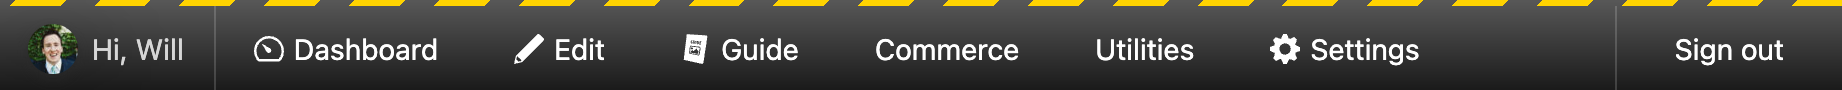
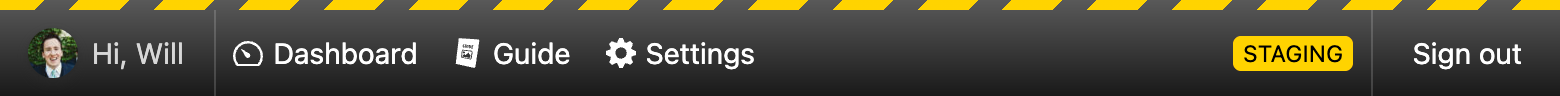
refactor: changed name from chip to label

diff --git a/src/components/AdminBarText.ts b/src/components/AdminBarText.ts
@@ -30,13 +30,13 @@ export class AdminBarText extends LitElement {
         background var(--admin-bar-transition-duration, 0.4s) ease-out,
         color var(--admin-bar-transition-duration, 0.4s) ease-out;
     }
-    .chip {
+    .label {
       padding: 3px 5px;
-      background-color: var(--admin-bar-chip-color-bg, rgba(255 255 255 / 0.9));
+      background-color: var(--admin-bar-text-label-color-bg, rgba(255 255 255 / 0.9));
       border-radius: 4px;
       line-height: 1;
       font-size: 0.8em;
-      color: var(--admin-bar-chip-color-text, black);
+      color: var(--admin-bar-text-label-color-text, black);
     }
   `
 
@@ -48,14 +48,14 @@ export class AdminBarText extends LitElement {
   /**
    * Sets the label for the `<admin-bar-text>`.
    */
-  @property({ attribute: 'chip-content' })
-  chipContent = ''
+  @property({ attribute: 'label-content' })
+  labelContent = ''
 
   /**
    * Sets the label for the `<admin-bar-text>`.
    */
-  @property({ attribute: 'chip-position' })
-  chipPosition: 'after' | 'before' = 'after'
+  @property({ attribute: 'label-position' })
+  labelPosition: 'after' | 'before' = 'after'
 
   /**
    * Sets the label for the `<admin-bar-text>`.
@@ -71,11 +71,11 @@ export class AdminBarText extends LitElement {
   render() {
     let textContent = html`<slot>${this.textContent ?? false ? html`<span>${this.textContent}</span>` : nothing}</slot>`
 
-    if (this.chipContent ?? false) {
+    if (this.labelContent ?? false) {
       textContent =
-        this.chipPosition === 'before'
-          ? html`<span class="chip">${this.chipContent}</span>${textContent}`
-          : html`${textContent}<span class="chip">${this.chipContent}</span>`
+        this.labelPosition === 'before'
+          ? html`<span class="label">${this.labelContent}</span>${textContent}`
+          : html`${textContent}<span class="label">${this.labelContent}</span>`
     }
 
     return html`<span class="admin-bar-text">${textContent}</span>`

diff --git a/index.html b/index.html
@@ -48,10 +48,10 @@
       <admin-bar-button button-href="https://craftcms.com">Anchor Slot</admin-bar-button>
       <admin-bar-button onclick="alert('hi')">Function Action<span slot="label-before"><svg class="icon" xmlns="http://www.w3.org/2000/svg" viewBox="0 0 240 240"><defs><style>.cls-1{fill:currentColor;}</style></defs><title>settings</title><path class="cls-1" d="M240,135V104.5l-35.93-15L201.32,81l15-34.87L194.87,24.5,158.63,39l-8.25-3.75L134.64,0h-29.5L90.06,35.55,82,38.84,45.33,24.94,24,46.38,39.55,81l-4,9L0,105v30l35.82,14.75,4,9-14.72,35.5L46.37,215l35.76-14.5,8.75,4L105.64,240h30l14.74-36.25,8.49-3.25,35.74,14.75L216.09,194l-14.55-36,3.27-8.5ZM120.45,165.13a45.25,45.25,0,1,1,45.25-45.25A45.25,45.25,0,0,1,120.45,165.13Z"/></svg></span></admin-bar-button>
       <span style="flex: 1 0 30px;"></span>
-      <admin-bar-text chip-content="25" chip-position="before">Chip goes before</admin-bar-text>
-      <admin-bar-text chip-content="25">Chip goes after</admin-bar-text>
+      <admin-bar-text label-content="25" label-position="before">Badge goes before</admin-bar-text>
+      <admin-bar-text label-content="25">Badge goes after</admin-bar-text>
       <admin-bar-text text-content="Simple plain text"></admin-bar-text>
-      <admin-bar-text chip-content="STAGING" style="--admin-bar-chip-color-bg: var(--admin-bar-environment-bg-color);"></admin-bar-text>
+      <admin-bar-text label-content="STAGING" style="--admin-bar-text-label-color-bg: var(--admin-bar-environment-bg-color);"></admin-bar-text>
     </admin-bar>
 
     <header style="font-family: system-ui; max-width: 50ch;">

diff --git a/cypress/component/AdminBarText.cy.ts b/cypress/component/AdminBarText.cy.ts
@@ -14,20 +14,20 @@ describe('Admin Bar Text Content', () => {
   })
 })
 
-describe('Admin Bar Chip Content', () => {
-  it('chip content is set correctly from attribute', () => {
-    cy.mount(html`<admin-bar-text chip-content="Hello"></admin-bar-text>`)
+describe('Admin Bar Badge Content', () => {
+  it('label content is set correctly from attribute', () => {
+    cy.mount(html`<admin-bar-text label-content="Hello"></admin-bar-text>`)
 
-    cy.get('admin-bar-text').shadow().find('.chip').contains('Hello')
+    cy.get('admin-bar-text').shadow().find('.label').contains('Hello')
   })
-  it('chip content is set after text content', () => {
-    cy.mount(html`<admin-bar-text chip-content="Hello" text-content="World"></admin-bar-text>`)
+  it('label content is set after text content', () => {
+    cy.mount(html`<admin-bar-text label-content="Hello" text-content="World"></admin-bar-text>`)
 
-    cy.get('admin-bar-text').shadow().find('.chip + *').should('not.exist')
+    cy.get('admin-bar-text').shadow().find('.label + *').should('not.exist')
   })
-  it('chip content is set after text content', () => {
-    cy.mount(html`<admin-bar-text chip-content="Hello" chip-position="before" text-content="World"></admin-bar-text>`)
+  it('label content is set after text content', () => {
+    cy.mount(html`<admin-bar-text label-content="Hello" label-position="before" text-content="World"></admin-bar-text>`)
 
-    cy.get('admin-bar-text').shadow().find('.chip + *').should('exist')
+    cy.get('admin-bar-text').shadow().find('.label + *').should('exist')
   })
 })

diff --git a/public/admin-bar.css b/public/admin-bar.css
@@ -71,11 +71,11 @@
     /* The text of all button labels. */
     --admin-bar-button-color-text: rgb(255 255 255);
 
-    /* The background for chips in `admin-bar-text` components. */
-    --admin-bar-chip-color-bg: rgba(255 255 255 / 0.9);
+    /* The background for labels in `admin-bar-text` components. */
+    --admin-bar-text-label-color-bg: rgba(255 255 255 / 0.9);
 
-    /* The text for chips in `admin-bar-text` components. */
-    --admin-bar-chip-color-text: rgba(0 0 0 / 1);
+    /* The text for labels in `admin-bar-text` components. */
+    --admin-bar-text-label-color-text: rgba(0 0 0 / 1);
 
     /* ====================================================================== */
 

diff --git a/README.md b/README.md
@@ -7,10 +7,8 @@ Admin Bar Component is a web component that is built with [Lit](https://lit.dev)
 - 👋 Show an avatar and a greeting to confirm the currently logged-in user.
 - 🚧 A customizable environment warning can be shown to let users know they are not on production.
 - 🎛 Buttons are customizable and can link to a URL or trigger JavaScript events.
+- 2⃣ Text elements can be added to provide stats and small notes to authors.
 - 🚪 A dedicated logout button gives users a way to sign out of your app.
-
-> [!NOTE]
-> Admin Bar Component is still in development. Things might change and break until the 1.0.0 release.
 
 ## Installation
 
@@ -207,26 +205,26 @@ Using the `text-content` attribute will add plain text that is styled to look li
 </admin-bar>
 ```
 
-### Adding Chips to Admin Bar Text Elements
+### Adding Labels to Admin Bar Text Elements
 
-You can use `<admin-bar-text>` elements for notes or for other useful information that is tied to the context of the current page you are on. Using the `chip-content` attribute on a `<admin-bar-text>` element will let you call out stats and other information:
+You can use `<admin-bar-text>` elements for notes or for other useful information that is tied to the context of the current page you are on. Using the `label-content` attribute on a `<admin-bar-text>` element will let you call out stats and other information:
 
 ```html
 <admin-bar>
-  <admin-bar-text chip-content="25" text-content="Enries in this Section"></admin-bar-text>
+  <admin-bar-text label-content="25" text-content="Enries in this Section"></admin-bar-text>
 </admin-bar>
 ```
 
-If you would like to create a label that is made up of only a chip, you can omit the default slot and the `text-content` attribute:
+If you would like to create a text element that is made up of only a label, you can omit the default slot and the `text-content` attribute:
 
 ```html
 <admin-bar show-environment>
-  <admin-bar-text chip-content="STAGING"></admin-bar-text>
+  <admin-bar-text label-content="STAGING"></admin-bar-text>
 </admin-bar>
 ```
 
 > [!TIP]
-> The color of chips can be styled using CSS Custom Properties.
+> The color of labels can be styled using CSS Custom Properties.
 
 ## Styling Admin Bar
 
@@ -357,11 +355,11 @@ The `admin-bar.css` file has comments describing what each CSS Custom Property s
       /* The text of all button labels. */
       --admin-bar-button-color-text: rgb(255 255 255);
 
-      /* The background for chips in `admin-bar-text` components. */
-      --admin-bar-chip-color-bg: rgba(255 255 255 / 0.9);
+      /* The background for labels in `admin-bar-text` components. */
+      --admin-bar-text-label-color-bg: rgba(255 255 255 / 0.9);
 
-      /* The text for chips in `admin-bar-text` components. */
-      --admin-bar-chip-color-text: rgba(0 0 0 / 1);
+      /* The text for labels in `admin-bar-text` components. */
+      --admin-bar-text-label-color-text: rgba(0 0 0 / 1);
 
       /* ====================================================================== */
 
